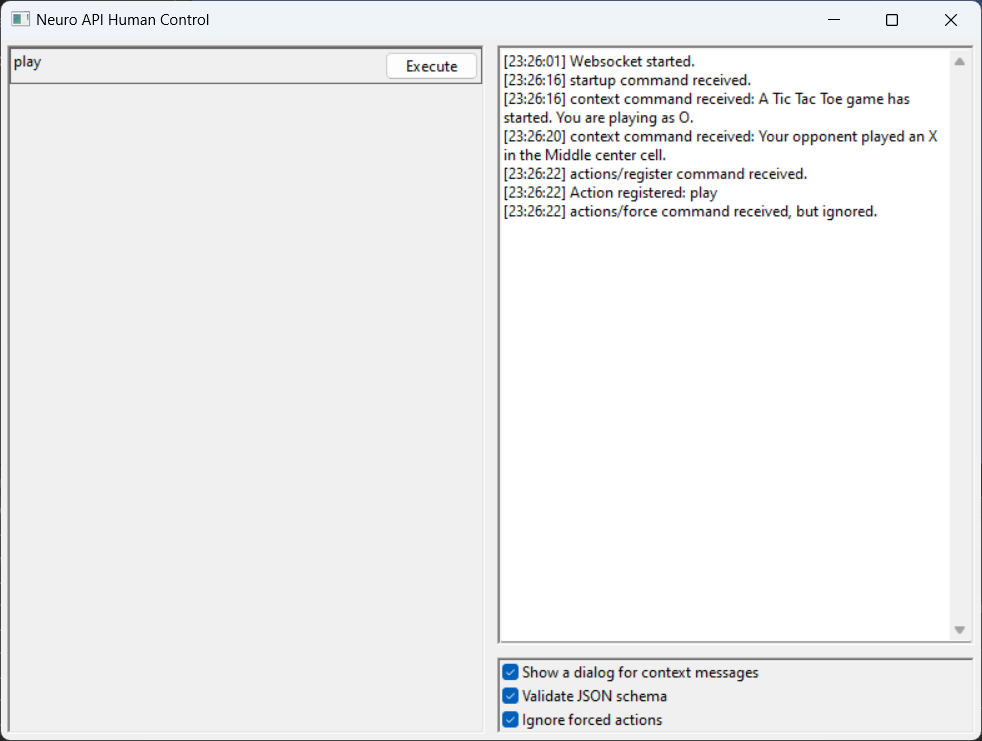
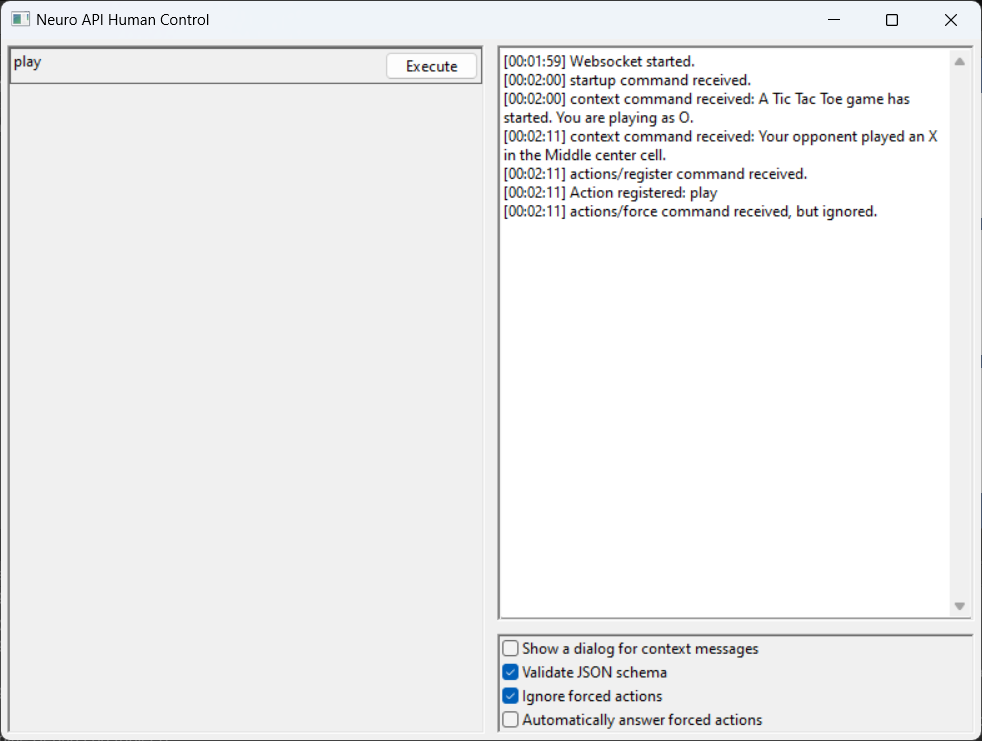
Implement auto-response (like Randy)

diff --git a/src/view.py b/src/view.py
@@ -71,6 +71,11 @@ class HumanView:
 
         return self.frame.panel.control_panel.ignore_actions_force_checkbox.GetValue()
     
+    def is_auto_send_checked(self) -> bool:
+        '''Return whether to automatically answer forced actions.'''
+
+        return self.frame.panel.control_panel.auto_send_checkbox.GetValue()
+    
     def show_context_dialog(self, message: str) -> None:
         '''Show a dialog for a context message.'''
 
@@ -245,16 +250,19 @@ class ControlPanel(wx.Panel):
         self.context_dialog_checkbox = wx.CheckBox(self, label='Show a dialog for context messages')
         self.validate_schema_checkbox = wx.CheckBox(self, label='Validate JSON schema')
         self.ignore_actions_force_checkbox = wx.CheckBox(self, label='Ignore forced actions')
+        self.auto_send_checkbox = wx.CheckBox(self, label='Automatically answer forced actions')
 
         self.sizer = wx.BoxSizer(wx.VERTICAL)
         self.sizer.Add(self.context_dialog_checkbox, 0, wx.EXPAND | wx.ALL, 2)
         self.sizer.Add(self.validate_schema_checkbox, 0, wx.EXPAND | wx.ALL, 2)
         self.sizer.Add(self.ignore_actions_force_checkbox, 0, wx.EXPAND | wx.ALL, 2)
+        self.sizer.Add(self.auto_send_checkbox, 0, wx.EXPAND | wx.ALL, 2)
         self.SetSizer(self.sizer)
 
         self.context_dialog_checkbox.SetValue(True)
         self.validate_schema_checkbox.SetValue(True)
         self.ignore_actions_force_checkbox.SetValue(False)
+        self.auto_send_checkbox.SetValue(False)
             
 class ActionPanel(wx.Panel):
     '''The panel for an action.'''

diff --git a/src/controller.py b/src/controller.py
@@ -1,8 +1,10 @@
+import random
 import jsonschema._utils
 import jsonschema.benchmarks
 import jsonschema.exceptions
 import jsonschema.tests
 import wx
+from jsf import JSF
 
 from .model import HumanModel, NeuroAction
 from .view import HumanView
@@ -92,8 +94,20 @@ class HumanController:
 
         self.view.log('actions/force command received.')
 
-        # self.view.force_actions(cmd.state, cmd.query, cmd.ephemeral_context, cmd.action_names)
-        wx.CallAfter(self.view.force_actions, cmd.state, cmd.query, cmd.ephemeral_context, cmd.action_names)
+        if self.view.is_auto_send_checked():
+            self.view.log('Automatically sending random action.')
+            actions = [action for action in self.model.actions if action.name in cmd.action_names]
+            action = random.choice(actions)
+
+            if action.schema is None:
+                self.send_action(next(self.id_generator), action.name, None)
+            else:
+                faker = JSF(action.schema)
+                sample = faker.generate()
+                self.send_action(next(self.id_generator), action.name, json.dumps(sample))
+                
+        else:
+            wx.CallAfter(self.view.force_actions, cmd.state, cmd.query, cmd.ephemeral_context, cmd.action_names)
 
     def on_action_result(self, cmd: ActionResultCommand):
         '''Handle the action/result command.'''

diff --git a/README.md b/README.md
@@ -1,7 +1,7 @@
 # Neuro API Human Control
 
-Python implementation of the Neuro API.
-In contrast to [Randy](https://github.com/VedalAI/neuro-game-sdk/blob/main/Randy), it allows the user to formulate the response Neuro would send themselves, as well as send non-forced actions whenever.
+Graphical implementation of the Neuro API in python.
+Like [Randy](https://github.com/VedalAI/neuro-game-sdk/blob/main/Randy), it can answer `actions/force` commands automatically, but also allows the user to formulate the response Neuro would send themselves, as well as send non-forced actions whenever.
 
 > [!Note]
 > I cannot guarantee that this implementation perfectly emulates what Neuro could/would do, or that it is error-free.
@@ -13,7 +13,7 @@ This will install the package in a virtual environment to not conflict with any 
 Skip steps 2 and 3 if you don't want a virtual environment.
 
 1. Clone the repository with `git clone https://github.com/Pasu4/neuro-api-human-control.git` or download it from GitHub
-2. Run `python -m venv .venv`
+2. Run `python -m venv .venv` (in the downloaded folder)
 3. Run `.\.venv\Scripts\activate` (Windows)
     - `source ./.venv/bin/activate` on Linux / Mac (?)
 4. Run `pip install -r requirements.txt`
@@ -39,5 +39,5 @@ When the game sends an `actions/force` command, a window will open that only sho
 Like Randy, this application opens a websocket server on port `8000` (websocket URL `ws://localhost:8000`).
 
 > [!Note]
-> For some reason, the Unity SDK takes a bit to receive the messages sometimes, but so far, every message has arrived eventually.
-> I don't know if it's my fault, but it doesn't happen with Randy.
+> For some reason, the Unity SDK sometimes takes a bit to receive the `action` command after an `actions/force` command, but so far, every command has arrived eventually.
+> This doesn't seem to be my fault, as it only happens if the `action` is not sent immediately.
